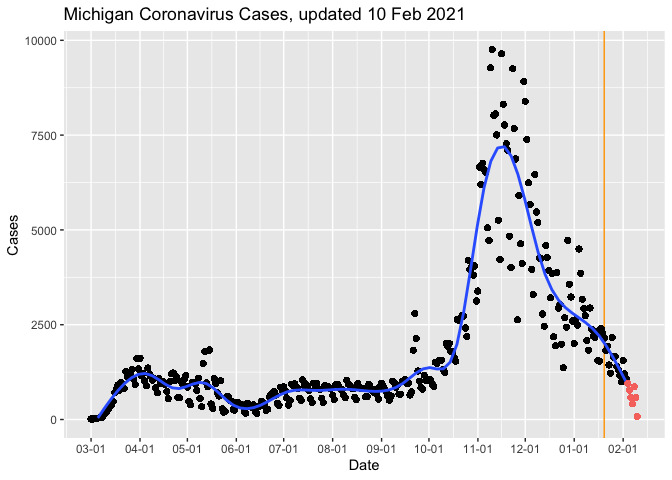
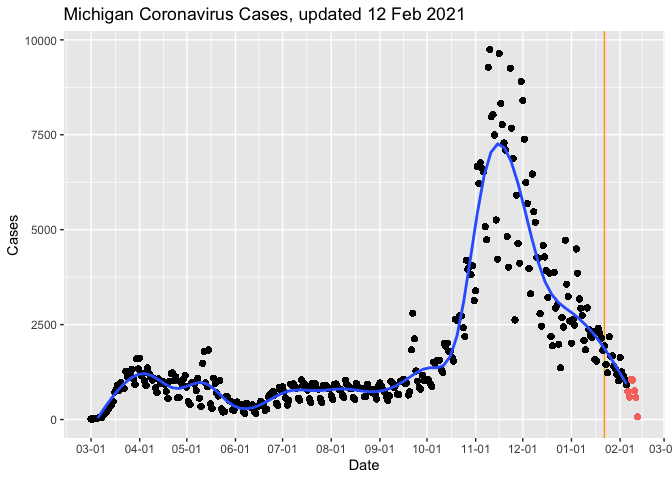
Feb-12 2021 19:54 update

diff --git a/MiCorona.md b/MiCorona.md
@@ -1,7 +1,7 @@
 Michigan COVID Data
 ================
 Adam D. DenHaan
-Feb 10, 2021
+Feb 12, 2021
 
 ``` python
 from urllib.request import urlopen
@@ -34,7 +34,7 @@ mi_data = readxl::read_excel("data/covid.xlsx")
 glimpse(mi_data)
 ```
 
-    ## Rows: 61,082
+    ## Rows: 61,434
     ## Columns: 8
     ## $ COUNTY            <chr> "Alcona", "Alcona", "Alcona", "Alcona", "Alcona", "…
     ## $ Date              <dttm> 2020-03-01, 2020-03-02, 2020-03-03, 2020-03-04, 20…
@@ -43,7 +43,7 @@ glimpse(mi_data)
     ## $ Deaths            <dbl> 0, 0, 0, 0, 0, 0, 0, 0, 0, 0, 0, 0, 0, 0, 0, 0, 0, …
     ## $ Cases.Cumulative  <dbl> 0, 0, 0, 0, 0, 0, 0, 0, 0, 0, 0, 0, 0, 0, 0, 0, 0, …
     ## $ Deaths.Cumulative <dbl> 0, 0, 0, 0, 0, 0, 0, 0, 0, 0, 0, 0, 0, 0, 0, 0, 0, …
-    ## $ Updated           <dttm> 2021-02-10 13:33:16, 2021-02-10 13:33:16, 2021-02-…
+    ## $ Updated           <dttm> 2021-02-12 14:08:27, 2021-02-12 14:08:27, 2021-02-…
 
 Wrangle Data:
 
